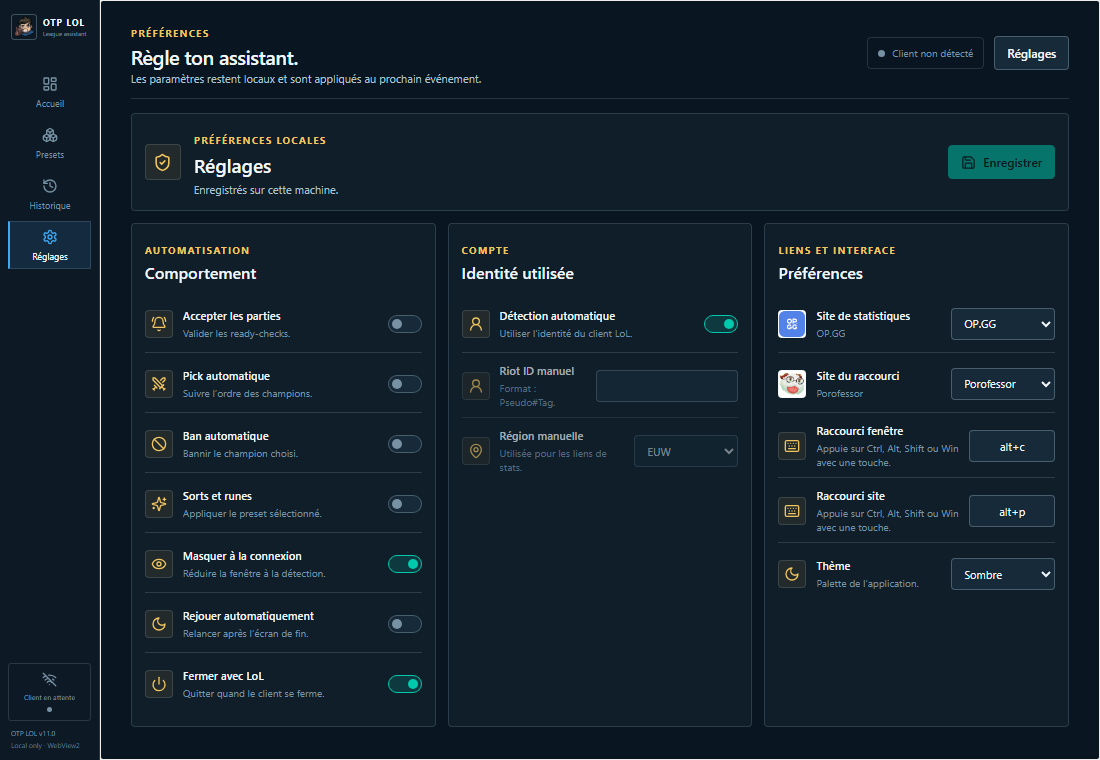
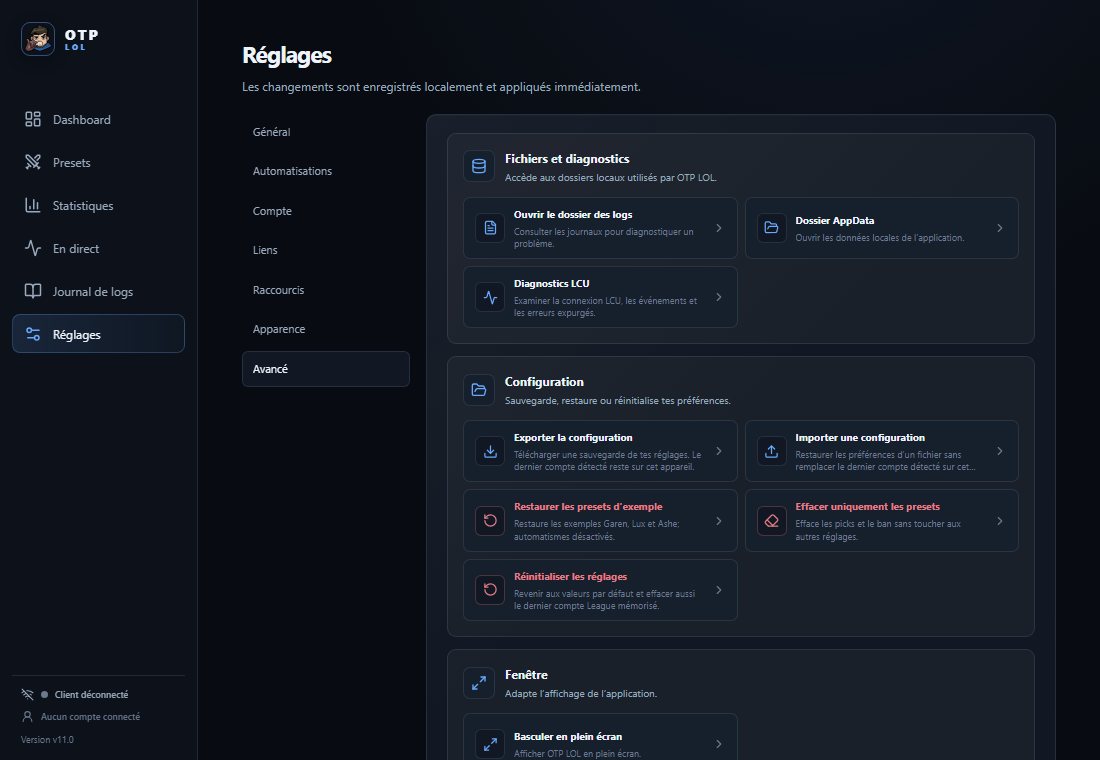
docs: refresh production documentation and screenshots

diff --git a/readme.md b/readme.md
@@ -3,6 +3,8 @@
   <a href="./requirements.txt"><img src="https://img.shields.io/badge/python-3.13-3776AB?logo=python&logoColor=white" alt="Python"></a>
   <a href="https://www.leagueoflegends.com/"><img src="https://img.shields.io/badge/game-League%20of%20Legends-C28F2C" alt="Game"></a>
   <a href="./readme.md"><img src="https://img.shields.io/badge/platform-Windows-0078D6?logo=windows&logoColor=white" alt="Platform"></a>
+  <a href="https://github.com/qurnt1/otp_lol/actions/workflows/python-ci.yml"><img src="https://github.com/qurnt1/otp_lol/actions/workflows/python-ci.yml/badge.svg" alt="Python CI"></a>
+  <a href="https://github.com/qurnt1/otp_lol/actions/workflows/frontend-ci.yml"><img src="https://github.com/qurnt1/otp_lol/actions/workflows/frontend-ci.yml/badge.svg" alt="Frontend CI"></a>
 </p>
 
 ---
@@ -11,9 +13,11 @@
 
 ---
 
-Windows desktop assistant for League of Legends, written in Python.
+Windows desktop assistant for League of Legends, written in Python with a React interface.
 
 `OTP LOL` automates several actions around the LoL client to save time during queue, champion select, and post-game, while keeping the interface simple to configure.
+
+The application is local to your Windows machine. It is not endorsed by Riot Games and does not provide a cloud account or hosted dashboard.
 
 Current project version: `11.0`
 
@@ -33,6 +37,7 @@ Current project version: `11.0`
 - [Shortcuts](#shortcuts)
 - [Project Architecture](#project-architecture)
 - [Tests And Verification](#tests-and-verification)
+- [Production Readiness](#production-readiness)
 - [Documentation](#documentation)
 - [Troubleshooting](#troubleshooting)
 - [Possible Roadmap](#possible-roadmap)
@@ -135,15 +140,17 @@ The project now includes several useful safeguards:
 
 ## Screenshots
 
-### Web Command Center
+The captures below are generated from the current React/WebView2 shell with a mocked local API. They contain no real League account data.
+
+### Dashboard, 1100 x 760
 
 ![Web command center](./docs/images/dashboard-web.png)
 
-### Web Settings
+Additional responsive references are available for [1440 x 900](./docs/images/dashboard-web-1440.png) and [1920 x 1080](./docs/images/dashboard-web-1920.png).
+
+### Advanced settings, 1100 x 760
 
 ![Web settings](./docs/images/settings-web.png)
-
-The older native picker captures remain in [`docs/images/`](./docs/images/) as historical references.
 
 ## Technologies
 
@@ -173,14 +180,20 @@ Before running the project from source, you need:
 - Windows
 - Python `3.13`
 - `pip`
+- Node.js `22` and `npm`
+- Microsoft Edge WebView2 Evergreen Runtime
 - the League of Legends client installed
+- internet access for initial static-data and asset downloads (cached data is reused afterward)
 
 ## Installation From Source
 
 ```bash
 git clone https://github.com/qurnt1/otp_lol.git
 cd otp_lol
-pip install -r requirements.txt
+py -3.13 -m venv .venv
+.venv\Scripts\Activate.ps1
+python -m pip install --upgrade pip
+python -m pip install -c requirements-constraints.txt -r requirements.txt
 ```
 
 ## Launch
@@ -195,7 +208,7 @@ cd ..
 python launcher_web.py
 ```
 
-The desktop shell serves the compiled React interface through a local FastAPI server and WebView2.
+The desktop shell serves the compiled React interface through a local FastAPI server and WebView2. Run the commands from a Windows PowerShell with the virtual environment activated.
 
 On startup, the application:
 
@@ -215,16 +228,17 @@ cd frontend
 npm ci
 npm run build
 cd ..
-pip install -r requirements-build.txt
-python create_exe.py
+python -m pip install -c requirements-constraints.txt -r requirements-build.txt
+python create_exe.py --mode onedir --no-shortcut
 ```
 
 This script generates a portable onedir distribution:
 
 - binary location: `OTP LOL/OTP LOL.exe`
 - final location: project root
+- temporary `build/`, `dist/`, and `.spec` files are cleaned by the script
 
-The tagged release workflow embeds this distribution in the `OTP-LOL-Setup.exe` Windows installer.
+To create the installer locally, install Inno Setup 6 and compile [`installer/OTP-LOL.iss`](./installer/OTP-LOL.iss). The tagged release workflow performs this step automatically and publishes `OTP-LOL-Setup.exe` plus its SHA-256 file.
 
 The script also handles:
 
@@ -373,14 +387,16 @@ otp_lol/
 |   |-- api/
 |   |-- domain/
 |   |-- lcu/
+|   |-- integrations/
 |   |-- desktop/
 |   |-- services/
-|   `-- utils.py
 |-- config/
 |   |-- son.wav
 |   `-- images/
 |-- docs/
-|   `-- images/
+|   |-- images/
+|   `-- screenshots/
+|-- website/
 `-- tests/
     |-- test_config.py
     |-- test_core_champ_select.py
@@ -409,6 +425,10 @@ otp_lol/
   External URLs, history, updates, role data, skin modes, and single-instance handling.
 - `src/desktop/`
   Native window, system tray, audio, shortcuts, and embedded API lifecycle.
+- `docs/`
+  Architecture, security, release, development, and current screenshot references.
+- `website/`
+  Separate public Vite marketing site. It shares the current screenshot assets but not the desktop UI.
 - `create_exe.py`
   Windows build through PyInstaller.
 
@@ -448,6 +468,22 @@ npm run build
 npm run test:e2e
 ```
 
+The E2E suite runs on Windows in CI because the packaged desktop experience depends on Windows WebView2. The browser tests use a mocked local API and do not require a running League client.
+
+## Production Readiness
+
+The tagged release workflow validates the source, checks the generated OpenAPI types, runs Python and frontend tests, runs Playwright on Windows, builds the onedir executable, runs its packaged self-test, creates the Inno Setup installer, and publishes the installer with a SHA-256 checksum.
+
+Before publishing a public release:
+
+1. update `APP_VERSION` in `src/config/constants.py`
+2. run the local checks from [`docs/development.md`](./docs/development.md)
+3. validate the packaged executable on a Windows machine with WebView2 and the League client
+4. verify the installer, shortcuts, first launch, settings creation, tray behavior, global hotkeys, and clean shutdown
+5. create a matching `vX.Y` tag and let the release workflow publish the exact installer assets
+
+The installer is not Authenticode-signed yet. Public distribution should add code signing and certificate timestamping before presenting the installer as trusted software. CI and automated tests cannot replace a real League/WebView2 smoke test.
+
 ## Documentation
 
 - [Architecture](./docs/architecture.md)
@@ -465,6 +501,14 @@ Check that:
 - the League of Legends client is running
 - `lcu-driver` is properly installed
 - the application is running on the same machine as the LoL client
+
+### The First Launch Has No Settings File
+
+This is expected behavior. OTP LOL creates `%APPDATA%\OTP LOL\parameters.toml` automatically with safe starter presets and all automations disabled. If the file is missing, invalid, or uses an unsupported schema, the application backs up the previous file when possible and recreates the current defaults.
+
+### The Window Does Not Open
+
+Check that the Microsoft Edge WebView2 Evergreen Runtime is installed. Run `python launcher_web.py --self-test` from the project root to validate the packaged/runtime prerequisites without opening the main window.
 
 ### The System Tray Or Hotkeys Do Not Work
 
@@ -495,10 +539,9 @@ If something goes wrong, the first file to check is:
 Some ideas for future improvements:
 
 - profiles by game mode
-- better screenshots in the README
 - more visual presentation page
 - multi-language support
-- release automation
+- Authenticode signing for the Windows installer
 
 ## Author
 

diff --git a/CLAUDE.md b/CLAUDE.md
@@ -57,7 +57,7 @@ When modifying champ select logic, work in `ChampSelectMixin` — the mixin meth
 
 - `constants.py` — immutable: version, URLs, LCU endpoints, spell maps, themes
 - `paths.py` — runtime paths: AppData for user files, TEMP for caches, `resource_path()` for PyInstaller `sys._MEIPASS`
-- `settings.py` — `DEFAULT_PARAMS`, `FIRST_LAUNCH_PARAMS`, `load_parameters()` with automatic reset on version mismatch, `_normalize_parameters()` for schema migration
+- `settings.py` — `DEFAULT_PARAMS`, `FIRST_LAUNCH_PARAMS`, `load_parameters()` with automatic reset for missing, invalid, or unsupported files, `_normalize_parameters()` for the current schema only
 - `logging_config.py` — root logger setup (file + console)
 
 ### GameState (`src/core/game_state.py`)
@@ -81,7 +81,7 @@ Central registry shared by reference everywhere — champion metadata, image cac
 
 ## Tests
 
-Framework: `unittest` (stdlib). Tests live in `tests/`. There's a `fake_lcu_server.py` that provides an `aiohttp`-based mock LCU for integration tests. The `tests/test_champ_select.py` tests are async and exercise the pick/ban/spell/skin resolution logic against a fake LCU session.
+Framework: `unittest` (stdlib). Tests live in `tests/`. There's a `fake_lcu_server.py` that provides an `aiohttp`-based mock LCU for integration tests. The `tests/test_core_champ_select.py` tests are async and exercise the pick/ban/spell/skin resolution logic against a fake LCU session.
 
 ## Commit style
 

diff --git a/docs/release.md b/docs/release.md
@@ -9,6 +9,8 @@ The release must contain these exact assets:
 
 The installer contains the onedir application and creates the desktop and Start Menu shortcuts. The checksum file contains the SHA-256 digest followed by the installer filename. The application and the public website use the exact installer asset instead of guessing from a generic `.exe` upload.
 
+The release workflow validates on `windows-latest`, runs the generated API type check only after Python dependencies are installed, executes the Playwright suite on Windows, runs the packaged `--self-test`, and builds the installer with the version read from `src/config/constants.py`.
+
 Before tagging:
 
 1. Update the application version in the project constants.
@@ -17,3 +19,5 @@ Before tagging:
 4. Create and push the `vX.Y` tag.
 
 The workflow owns GitHub Release publication. It is intentionally not triggered by ordinary branch pushes.
+
+Before broad public distribution, perform a real League/WebView2 smoke test and sign the installer with Authenticode. The current workflow produces a valid checksum but does not sign the installer.

diff --git a/docs/screenshots/README.md b/docs/screenshots/README.md
@@ -1,5 +1,10 @@
 # Screenshots
 
-The current React/WebView2 captures are [`dashboard-web.png`](../images/dashboard-web.png) and [`settings-web.png`](../images/settings-web.png). They show the 1100 x 760 shell with a mocked local API, so no League account data is included.
+The current React/WebView2 captures used by the README and the public website are:
 
-The older native picker captures are kept in [`../images/`](../images/) as historical references. Do not include browser traces, test results, or generated build output in this directory.
+- [`dashboard-web.png`](../images/dashboard-web.png), the 1100 x 760 reference view;
+- [`dashboard-web-1440.png`](../images/dashboard-web-1440.png), a wide desktop view;
+- [`dashboard-web-1920.png`](../images/dashboard-web-1920.png), a large desktop view;
+- [`settings-web.png`](../images/settings-web.png), the current Advanced settings view.
+
+They use the Playwright mocked local API, so they contain no League account data. Keep browser traces, test results, and generated build output out of this directory.

diff --git a/docs/development.md b/docs/development.md
@@ -22,7 +22,9 @@ npm run build
 npm run test:e2e
 ```
 
-The Playwright suite starts Vite on `127.0.0.1:4173` and mocks the local API. It verifies the shared shell, blank first launch, settings dirty-state guard, and history empty state without requiring League to be installed.
+The frontend expects Node.js `22`. The Playwright suite starts Vite on `127.0.0.1:4173` and mocks the local API. It verifies the shared shell, blank first launch, settings dirty-state guard, and history empty state without requiring League to be installed. The release and E2E Windows jobs install Chromium on Windows; a real packaged smoke test still requires WebView2.
+
+The README images in [`docs/images/`](./images/) are current Playwright captures of the mocked desktop shell. Update them only from a validated current UI state, and keep real account data out of committed screenshots.
 
 Security and quality checks:
 

diff --git a/track_updates.md b/track_updates.md
@@ -43,3 +43,5 @@
 - fix: restore the compact Tk home layout and add a native Windows hotkey backend
 - fix: serve cached champion, spell, and rune assets through the local API
 - fix: preserve rune and skin fallbacks, isolate hotkey conflicts, and reload shortcuts live
+- docs: refresh production setup, architecture, and current UI screenshots
+- chore: ignore local environment files and release packaging artifacts
